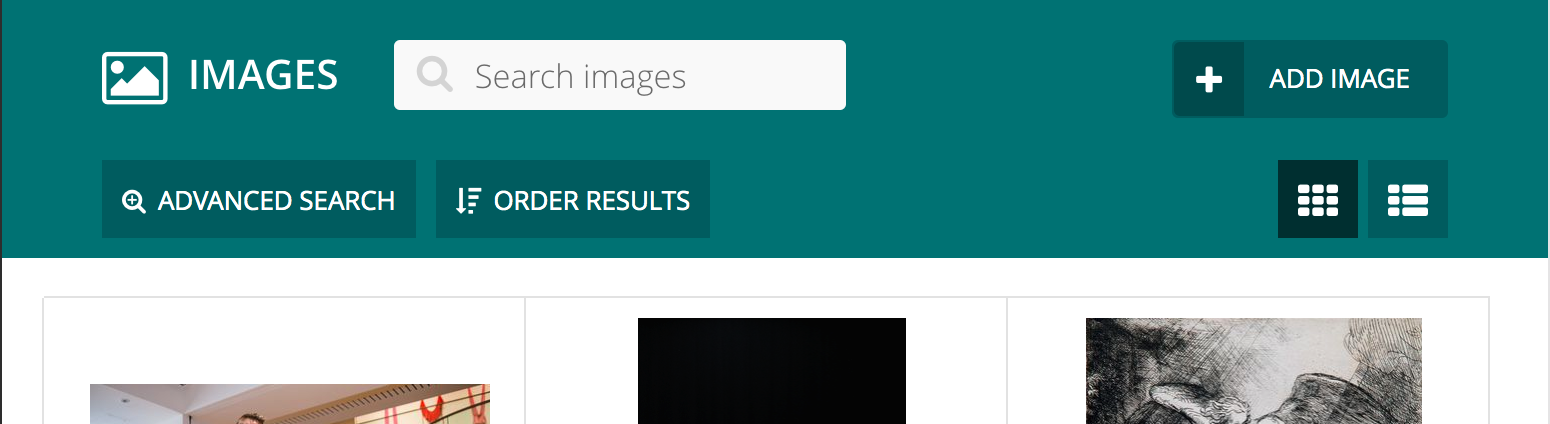
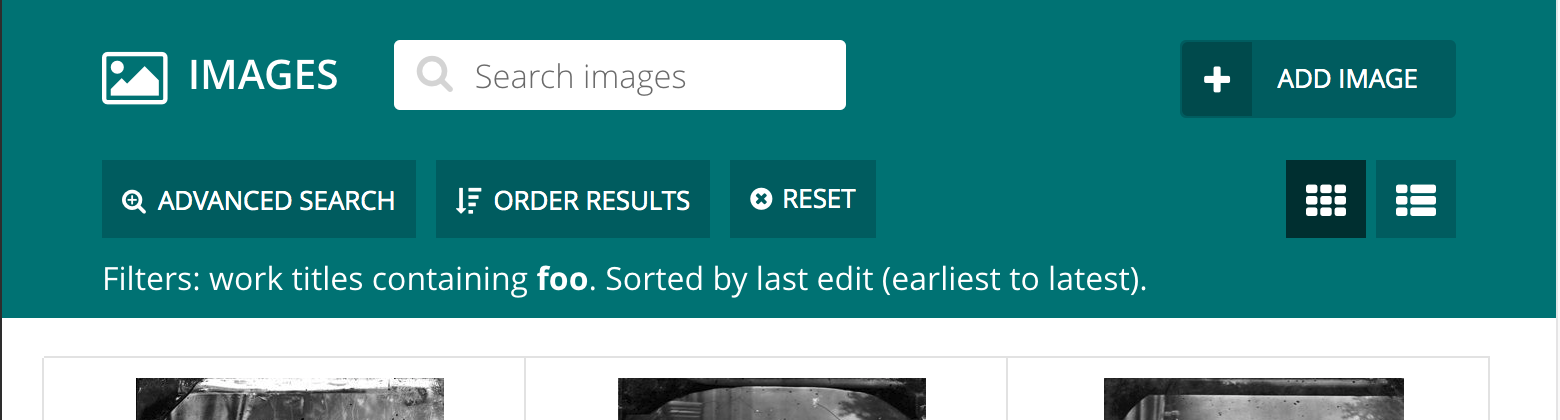
Docs

diff --git a/README.md b/README.md
@@ -90,24 +90,23 @@ class TestModelAdmin(ModelAdmin):
 
 ## Screenshots
 
-### Collapsible "Advanced Search" and "Order Results" panels with buttons to change layouts. 
-
 ![](./docs/screenshots/image_list_view_default.png)
 
+Collapsible "Advanced Search" and "Order Results" panels with buttons to change layouts. A textual description 
+of the search & ordering controls is provided to improve UX.
 
-### "Advanced Search" panel collapsed and displaying a powerful search interface. 
+------------------------------------------------------
 
 ![](./docs/screenshots/image_list_view_filters.png)
 
+The "Advanced Search" panel collapsed and displaying an extended search interface.
 
-### "Order Results" panel collapsed and displaying multiple options to control ordering of the results. 
+------------------------------------------------------ 
 
 ![](./docs/screenshots/image_list_view_ordering.png)
 
+The "Order Results" panel collapsed and displaying options to control ordering of the results.
 
-### A textual description of the search & ordering controls is provided to improve UX.
-
-![](./docs/screenshots/image_list_view_textual_description.png)
 
 
 ## Rationale and goals
